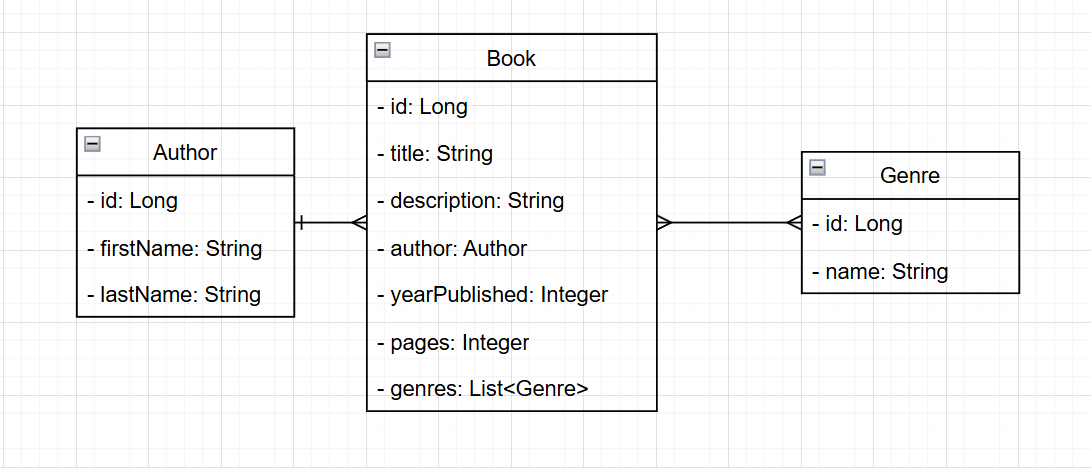
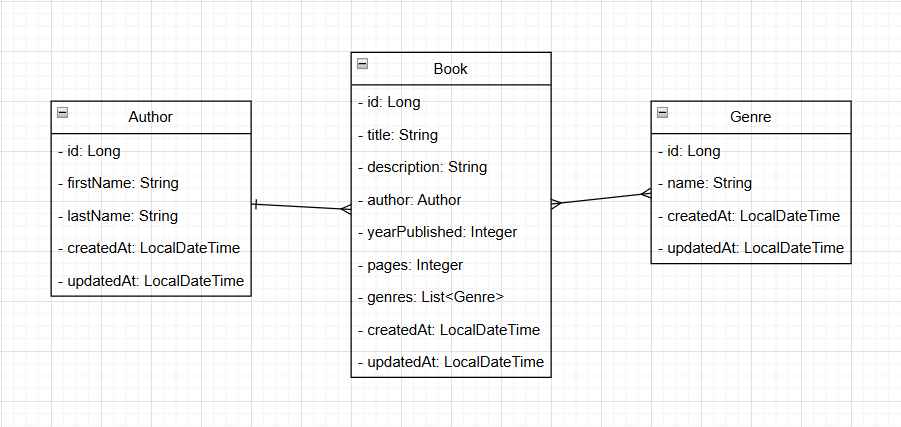
Fix equals and hashCode methods in entities, add createdAt and updatedAt fields to entities

diff --git a/src/main/java/com/melnyk/profitsoft_2/entity/Genre.java b/src/main/java/com/melnyk/profitsoft_2/entity/Genre.java
@@ -2,9 +2,13 @@ package com.melnyk.profitsoft_2.entity;
 
 import jakarta.persistence.*;
 import lombok.*;
+import org.hibernate.annotations.CreationTimestamp;
+import org.hibernate.annotations.UpdateTimestamp;
 
+import java.time.LocalDateTime;
 import java.util.ArrayList;
 import java.util.List;
+import java.util.Objects;
 
 @Entity
 @Table(
@@ -15,7 +19,6 @@ import java.util.List;
 @Setter
 @NoArgsConstructor
 @AllArgsConstructor
-@EqualsAndHashCode
 @Builder
 public class Genre {
 
@@ -35,6 +38,27 @@ public class Genre {
         mappedBy = "genres",
         cascade = CascadeType.ALL
     )
+    @Builder.Default
     private List<Book> books = new ArrayList<>();
+
+    @CreationTimestamp
+    @Column(name = "created_at")
+    private LocalDateTime createdAt;
+
+    @UpdateTimestamp
+    @Column(name = "updated_at")
+    private LocalDateTime updatedAt;
+
+    @Override
+    public boolean equals(Object o) {
+        if (o == null || getClass() != o.getClass()) return false;
+        Genre genre = (Genre) o;
+        return Objects.equals(id, genre.id);
+    }
+
+    @Override
+    public int hashCode() {
+        return getClass().hashCode();
+    }
 
 }

diff --git a/src/main/java/com/melnyk/profitsoft_2/entity/Author.java b/src/main/java/com/melnyk/profitsoft_2/entity/Author.java
@@ -2,9 +2,13 @@ package com.melnyk.profitsoft_2.entity;
 
 import jakarta.persistence.*;
 import lombok.*;
+import org.hibernate.annotations.CreationTimestamp;
+import org.hibernate.annotations.UpdateTimestamp;
 
+import java.time.LocalDateTime;
 import java.util.ArrayList;
 import java.util.List;
+import java.util.Objects;
 
 @Entity
 @Table(name = "authors")
@@ -12,7 +16,6 @@ import java.util.List;
 @Setter
 @NoArgsConstructor
 @AllArgsConstructor
-@EqualsAndHashCode
 @Builder
 public class Author {
 
@@ -37,6 +40,26 @@ public class Author {
         fetch = FetchType.LAZY,
         cascade = CascadeType.ALL
     )
+    @Builder.Default
     private List<Book> books = new ArrayList<>();
+
+    @CreationTimestamp
+    private LocalDateTime createdAt;
+
+    @UpdateTimestamp
+    private LocalDateTime updatedAt;
+
+    @Override
+    public boolean equals(Object o) {
+        if (this == o) return true;
+        if (o == null || getClass() != o.getClass()) return false;
+        Author author = (Author) o;
+        return Objects.equals(id, author.id);
+    }
+
+    @Override
+    public int hashCode() {
+        return getClass().hashCode();
+    }
 
 }

diff --git a/src/main/java/com/melnyk/profitsoft_2/entity/Book.java b/src/main/java/com/melnyk/profitsoft_2/entity/Book.java
@@ -2,8 +2,12 @@ package com.melnyk.profitsoft_2.entity;
 
 import jakarta.persistence.*;
 import lombok.*;
+import org.hibernate.annotations.CreationTimestamp;
+import org.hibernate.annotations.UpdateTimestamp;
 
+import java.time.LocalDateTime;
 import java.util.HashSet;
+import java.util.Objects;
 import java.util.Set;
 
 @Entity
@@ -15,7 +19,6 @@ import java.util.Set;
 @Setter
 @NoArgsConstructor
 @AllArgsConstructor
-@EqualsAndHashCode
 @Builder
 public class Book {
 
@@ -50,6 +53,25 @@ public class Book {
         joinColumns = @JoinColumn(name = "book_id"),
         inverseJoinColumns = @JoinColumn(name = "genre_id")
     )
+    @Builder.Default
     private Set<Genre> genres = new HashSet<>();
+
+    @CreationTimestamp
+    private LocalDateTime createdAt;
+
+    @UpdateTimestamp
+    private LocalDateTime updatedAt;
+
+    @Override
+    public boolean equals(Object o) {
+        if (o == null || getClass() != o.getClass()) return false;
+        Book book = (Book) o;
+        return Objects.equals(id, book.id);
+    }
+
+    @Override
+    public int hashCode() {
+        return getClass().hashCode();
+    }
 
 }
